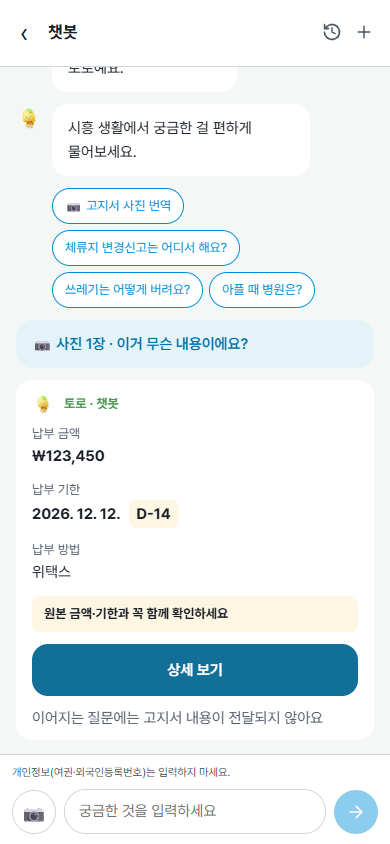
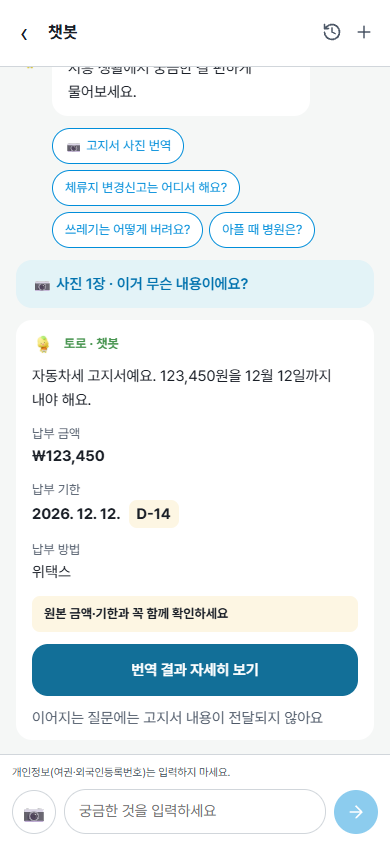
fix: 챗봇 고지서 카드 문구와 요약 문장 (#29)

diff --git a/src/features/chat/messages.ts b/src/features/chat/messages.ts
@@ -43,7 +43,21 @@ export const chatMessages = defineMessages({
         chip: '고지서 사진 번역',
         userCard: '사진 1장 · 이거 무슨 내용이에요?',
         verify: '원본 금액·기한과 꼭 함께 확인하세요',
-        detail: '상세 보기',
+        detail: '번역 결과 자세히 보기',
+        summary: {
+          document: {
+            TAX_CAR: '자동차세 고지서예요.',
+            TAX_PROPERTY: '재산세 고지서예요.',
+            TAX_RESIDENT: '주민세 고지서예요.',
+            TAX_NOTICE: '납세고지서예요.',
+            DEMAND_NOTICE: '독촉장이에요.',
+            ARREARS_NOTICE: '체납액 고지서예요.',
+            UTILITY: '공과금·보험료 고지서예요.',
+          },
+          amountAndDue: '{{amount}}원을 {{date}}까지 내야 해요.',
+          amount: '{{amount}}원을 내야 해요.',
+          due: '{{date}}까지 내야 해요.',
+        },
         noContext: '이어지는 질문에는 고지서 내용이 전달되지 않아요',
         deleted: '삭제된 번역이에요.',
         failed: '번역하지 못했어요',
@@ -102,7 +116,21 @@ export const chatMessages = defineMessages({
         chip: 'Translate a bill photo',
         userCard: '1 photo · What does this say?',
         verify: 'Always check the amount and due date against the original',
-        detail: 'See details',
+        detail: 'See the full translation',
+        summary: {
+          document: {
+            TAX_CAR: 'This is a vehicle tax notice.',
+            TAX_PROPERTY: 'This is a property tax notice.',
+            TAX_RESIDENT: 'This is a resident tax notice.',
+            TAX_NOTICE: 'This is a tax notice.',
+            DEMAND_NOTICE: 'This is a payment demand notice.',
+            ARREARS_NOTICE: 'This is an arrears notice.',
+            UTILITY: 'This is a utility or insurance bill.',
+          },
+          amountAndDue: 'You need to pay ₩{{amount}} by {{date}}.',
+          amount: 'You need to pay ₩{{amount}}.',
+          due: 'You need to pay by {{date}}.',
+        },
         noContext: 'Your next questions will not include what is in the bill',
         deleted: 'This translation was deleted.',
         failed: 'We could not translate it',
@@ -160,7 +188,21 @@ export const chatMessages = defineMessages({
         chip: '翻译缴费通知单照片',
         userCard: '1张照片 · 这是什么内容？',
         verify: '请务必对照原件核对金额和期限',
-        detail: '查看详情',
+        detail: '查看翻译结果详情',
+        summary: {
+          document: {
+            TAX_CAR: '这是汽车税缴费通知。',
+            TAX_PROPERTY: '这是财产税缴费通知。',
+            TAX_RESIDENT: '这是居民税缴费通知。',
+            TAX_NOTICE: '这是税务缴费通知单。',
+            DEMAND_NOTICE: '这是缴费催缴通知。',
+            ARREARS_NOTICE: '这是欠缴金额通知。',
+            UTILITY: '这是公共事业费或保险费账单。',
+          },
+          amountAndDue: '需要在{{date}}前缴纳{{amount}}韩元。',
+          amount: '需要缴纳{{amount}}韩元。',
+          due: '需要在{{date}}前缴纳。',
+        },
         noContext: '之后的提问不会附带通知单内容',
         deleted: '该翻译已删除。',
         failed: '翻译失败',
@@ -218,7 +260,22 @@ export const chatMessages = defineMessages({
         chip: 'Dịch ảnh hóa đơn',
         userCard: '1 ảnh · Giấy này nói gì vậy?',
         verify: 'Hãy luôn đối chiếu số tiền và hạn nộp với bản gốc',
-        detail: 'Xem chi tiết',
+        detail: 'Xem chi tiết bản dịch',
+        summary: {
+          document: {
+            TAX_CAR: 'Đây là thông báo thuế xe.',
+            TAX_PROPERTY: 'Đây là thông báo thuế tài sản.',
+            TAX_RESIDENT: 'Đây là thông báo thuế cư trú.',
+            TAX_NOTICE: 'Đây là thông báo nộp thuế.',
+            DEMAND_NOTICE: 'Đây là thông báo đôn đốc nộp tiền.',
+            ARREARS_NOTICE: 'Đây là thông báo khoản nợ quá hạn.',
+            UTILITY: 'Đây là hóa đơn tiện ích hoặc bảo hiểm.',
+          },
+          amountAndDue:
+            'Bạn cần nộp {{amount}} won chậm nhất vào ngày {{date}}.',
+          amount: 'Bạn cần nộp {{amount}} won.',
+          due: 'Bạn cần nộp chậm nhất vào ngày {{date}}.',
+        },
         noContext: 'Các câu hỏi tiếp theo không kèm nội dung hóa đơn',
         deleted: 'Bản dịch này đã bị xóa.',
         failed: 'Không dịch được',

diff --git a/src/features/chat/chat-bill-summary.test.ts b/src/features/chat/chat-bill-summary.test.ts
@@ -1,0 +1,95 @@
+import { createInstance } from 'i18next'
+import { describe, expect, it } from 'vitest'
+import { chatBillSummary } from './chat-bill-summary'
+import { chatMessages } from './messages'
+
+async function translator(language: keyof typeof chatMessages) {
+  const instance = createInstance()
+  await instance.init({
+    lng: language,
+    resources: { [language]: { translation: chatMessages[language] } },
+    interpolation: { escapeValue: false },
+  })
+  return instance.t
+}
+
+// 2026-11-28 in Korea.
+const now = new Date('2026-11-28T03:00:00Z')
+const bill = {
+  documentType: 'TAX_NOTICE',
+  taxKind: 'TAX_CAR',
+  amount: 12500,
+  dueDate: '2026-12-31',
+} as const
+const nothing = {
+  documentType: null,
+  taxKind: null,
+  amount: null,
+  dueDate: null,
+} as const
+
+describe('one line summary of a bill in the chat', () => {
+  it.each([
+    ['ko', '자동차세 고지서예요. 12,500원을 12월 31일까지 내야 해요.'],
+    [
+      'en',
+      'This is a vehicle tax notice. You need to pay ₩12,500 by December 31.',
+    ],
+    ['zh', '这是汽车税缴费通知。需要在12月31日前缴纳12,500韩元。'],
+    [
+      'vi',
+      'Đây là thông báo thuế xe. Bạn cần nộp 12.500 won chậm nhất vào ngày 31 tháng 12.',
+    ],
+  ] as const)('is written in %s', async (language, sentence) => {
+    const t = await translator(language)
+    expect(chatBillSummary(t, bill, language, now)).toBe(sentence)
+  })
+
+  it.each([
+    [
+      { ...bill, documentType: null, taxKind: null },
+      '12,500원을 12월 31일까지 내야 해요.',
+    ],
+    [
+      { ...bill, amount: null },
+      '자동차세 고지서예요. 12월 31일까지 내야 해요.',
+    ],
+    [{ ...bill, dueDate: null }, '자동차세 고지서예요. 12,500원을 내야 해요.'],
+    [{ ...nothing, documentType: 'TAX_NOTICE' }, '납세고지서예요.'],
+    [{ ...nothing, amount: 12500 }, '12,500원을 내야 해요.'],
+    [{ ...nothing, dueDate: '2026-12-31' }, '12월 31일까지 내야 해요.'],
+  ] as const)('leaves out missing values: %o', async (result, sentence) => {
+    const t = await translator('ko')
+    expect(chatBillSummary(t, result, 'ko', now)).toBe(sentence)
+  })
+
+  it('has no sentence when nothing is known', async () => {
+    const t = await translator('ko')
+    expect(chatBillSummary(t, nothing, 'ko', now)).toBeNull()
+    expect(
+      chatBillSummary(t, { ...nothing, documentType: 'OTHER' }, 'ko', now),
+    ).toBeNull()
+  })
+
+  it.each([
+    ['DEMAND_NOTICE', 'TAX_CAR', '독촉장이에요.'],
+    ['ARREARS_NOTICE', 'TAX_PROPERTY', '체납액 고지서예요.'],
+    ['UTILITY', null, '공과금·보험료 고지서예요.'],
+    ['TAX_NOTICE', 'TAX_PROPERTY', '재산세 고지서예요.'],
+    [null, 'TAX_RESIDENT', '주민세 고지서예요.'],
+    ['TAX_NOTICE', 'TAX_UNKNOWN', '납세고지서예요.'],
+    ['TAX_NOTICE', undefined, '납세고지서예요.'],
+  ] as const)('names %s with %s', async (documentType, taxKind, sentence) => {
+    const t = await translator('ko')
+    expect(
+      chatBillSummary(t, { ...nothing, documentType, taxKind }, 'ko', now),
+    ).toBe(sentence)
+  })
+
+  it('adds the year to a deadline outside this year', async () => {
+    const t = await translator('ko')
+    expect(
+      chatBillSummary(t, { ...nothing, dueDate: '2027-01-05' }, 'ko', now),
+    ).toBe('2027. 1. 5.까지 내야 해요.')
+  })
+})

diff --git a/src/features/chat/chat-bill-summary.ts b/src/features/chat/chat-bill-summary.ts
@@ -1,0 +1,69 @@
+import type { TFunction } from 'i18next'
+import type { BillTranslation } from '@/features/bill-translation/api'
+import {
+  formatCalendarDate,
+  formatLongMonthDay,
+  koreaToday,
+} from '@/shared/i18n/format'
+
+type SummaryFields = Pick<
+  BillTranslation,
+  'documentType' | 'taxKind' | 'amount' | 'dueDate'
+>
+
+const taxKinds = ['TAX_CAR', 'TAX_PROPERTY', 'TAX_RESIDENT']
+
+/**
+ * The name of the document, or null when it says nothing (OTHER). A reminder or
+ * arrears notice is named as such even when the tax is known. `taxType` is not
+ * used because it is Korean in every language.
+ */
+function documentKey({ documentType, taxKind }: SummaryFields) {
+  if (
+    taxKind &&
+    taxKinds.includes(taxKind) &&
+    (documentType === null || documentType === 'TAX_NOTICE')
+  )
+    return taxKind
+  return documentType === 'OTHER' ? null : documentType
+}
+
+/** "12월 31일"; the year is added when it is not this year in Korea. */
+function summaryDate(date: string, language: string, now?: Date) {
+  return date.slice(0, 4) === koreaToday(now).slice(0, 4)
+    ? formatLongMonthDay(date, language)
+    : formatCalendarDate(date, language)
+}
+
+/**
+ * #29 토로's one line above a bill result, built from the result fields with
+ * fixed sentences (no AI). A missing value leaves its part out; null when
+ * nothing is known.
+ */
+export function chatBillSummary(
+  t: TFunction,
+  result: SummaryFields,
+  language: string,
+  now?: Date,
+) {
+  const name = documentKey(result)
+  const amount =
+    result.amount === null
+      ? null
+      : new Intl.NumberFormat(language).format(result.amount)
+  const date = result.dueDate
+    ? summaryDate(result.dueDate, language, now)
+    : null
+  const sentences = [
+    name && t(`chat.bill.summary.document.${name}`),
+    amount !== null && date !== null
+      ? t('chat.bill.summary.amountAndDue', { amount, date })
+      : amount !== null
+        ? t('chat.bill.summary.amount', { amount })
+        : date !== null
+          ? t('chat.bill.summary.due', { date })
+          : null,
+  ].filter(Boolean)
+  // Chinese puts no space between sentences.
+  return sentences.join(language === 'zh' ? '' : ' ') || null
+}

diff --git a/src/features/chat/ui/chat-bill.tsx b/src/features/chat/ui/chat-bill.tsx
@@ -17,6 +17,7 @@ import { formatCalendarDate } from '@/shared/i18n/format'
 import { Button, ButtonLink } from '@/shared/ui/button'
 import { Card, Muted, Stack } from '@/shared/ui/page'
 import { QueryState } from '@/shared/ui/query-state'
+import { chatBillSummary } from '../chat-bill-summary'
 import type { ChatBillTurn } from '../use-chat-bill'
 import { ChatBubble } from './chat-message'
 import styles from './chat.module.css'
@@ -92,12 +93,14 @@ function ResultSummary({
   const language = currentLanguage()
   const unknown = t('bill.unknown')
   const dDay = billDDayLabel(t, result.dueDate)
+  const summary = chatBillSummary(t, result, language)
   const howToPay =
     result.summary?.howToPay?.trim() ||
     result.paymentMethods.filter((method) => method.trim()).join(', ')
   return (
     <div className={`${billStyles.theme} ${styles.billResult}`}>
       <Stack gap={12}>
+        {summary && <p>{summary}</p>}
         <dl className={billStyles.facts}>
           <div>
             <dt>{t('bill.amount')}</dt>

diff --git a/docs/prompts/2026-11-28-chat-bill-translation.md b/docs/prompts/2026-11-28-chat-bill-translation.md
@@ -55,6 +55,15 @@
 
 미검증: 실제 BE·Gemini, 실기기의 카메라·앨범 선택창. 터치 에뮬레이션은 사용하지 않는다. 파일 선택은 input의 click 이벤트와 자동 파일 주입으로 확인한다.
 
+## 2026-11-28 PR 전 카드 문구와 요약 문장
+
+- 요청 범위는 상세 버튼 문구를 시안의 ‘번역 결과 자세히 보기’로 바꾸고, 결과 필드로 만드는 고정 한 줄 요약을 4개 언어로 추가하는 것이다. 없는 값은 빼고 모두 없으면 문장을 생략하며, AI 호출은 추가하지 않는다. `.claude-docs/`는 `.gitignore`를 바꾸지 않고 로컬에서 제외한다.
+- 아래 문장 규칙은 AI가 정한다. 서버의 `taxType`은 모든 언어에서 한국어이므로 쓰지 않는다. 납세고지서이거나 문서 종류가 없으면 `taxKind`의 세목 이름을 쓴다. 독촉장·체납액 고지서는 세목보다 문서 종류를 우선한다. ‘기타 문서’(`OTHER`)는 알려 주는 내용이 없어 이름을 생략한다. 기한이 올해(한국 날짜)가 아니면 연도를 함께 표시한다.
+- `npm run check`는 Vitest 44개 파일 428개 테스트와 빌드를 포함해 통과한다.
+- Chrome headless 390×844, MSW로 앞의 한국어 시나리오를 다시 실행해 통과한다. vi·en·zh의 성공 결과 카드에 글자 넘침·잘림이 없다. 위 스크린샷 중 성공, 대화 안의 카드, 상세에서 복귀를 새 화면으로 바꾼다.
+- `.git/info/exclude`는 git에만 적용된다. Prettier는 `.claude-docs/`를 계속 검사한다.
+- 기한이 지난 고지서도 요약 문장은 ‘…까지 내야 해요’이며, 지난 상태는 D-day 자리의 ‘기한 지남’으로 표시한다. 기한이 지난 화면은 촬영하지 않는다.
+
 ## 남은 작업
 
 - 처리 중 취소는 FE 요청만 중단한다. BE에는 취소 API가 없어 번역이 최근 기록에 남을 수 있으며, 취소한 결과는 대화에 추가하지 않는다.
